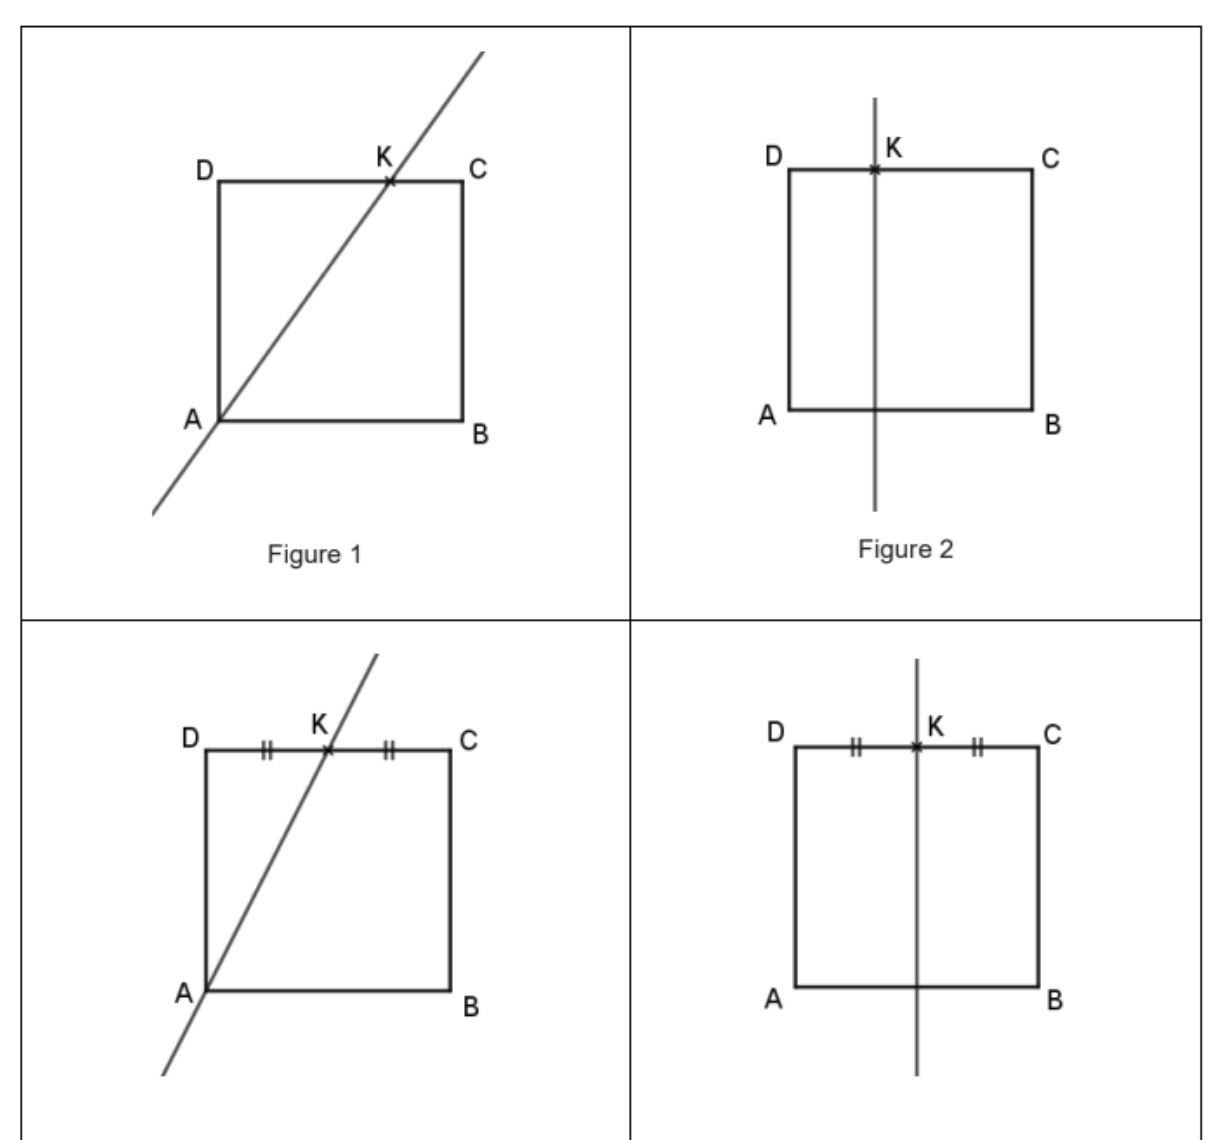
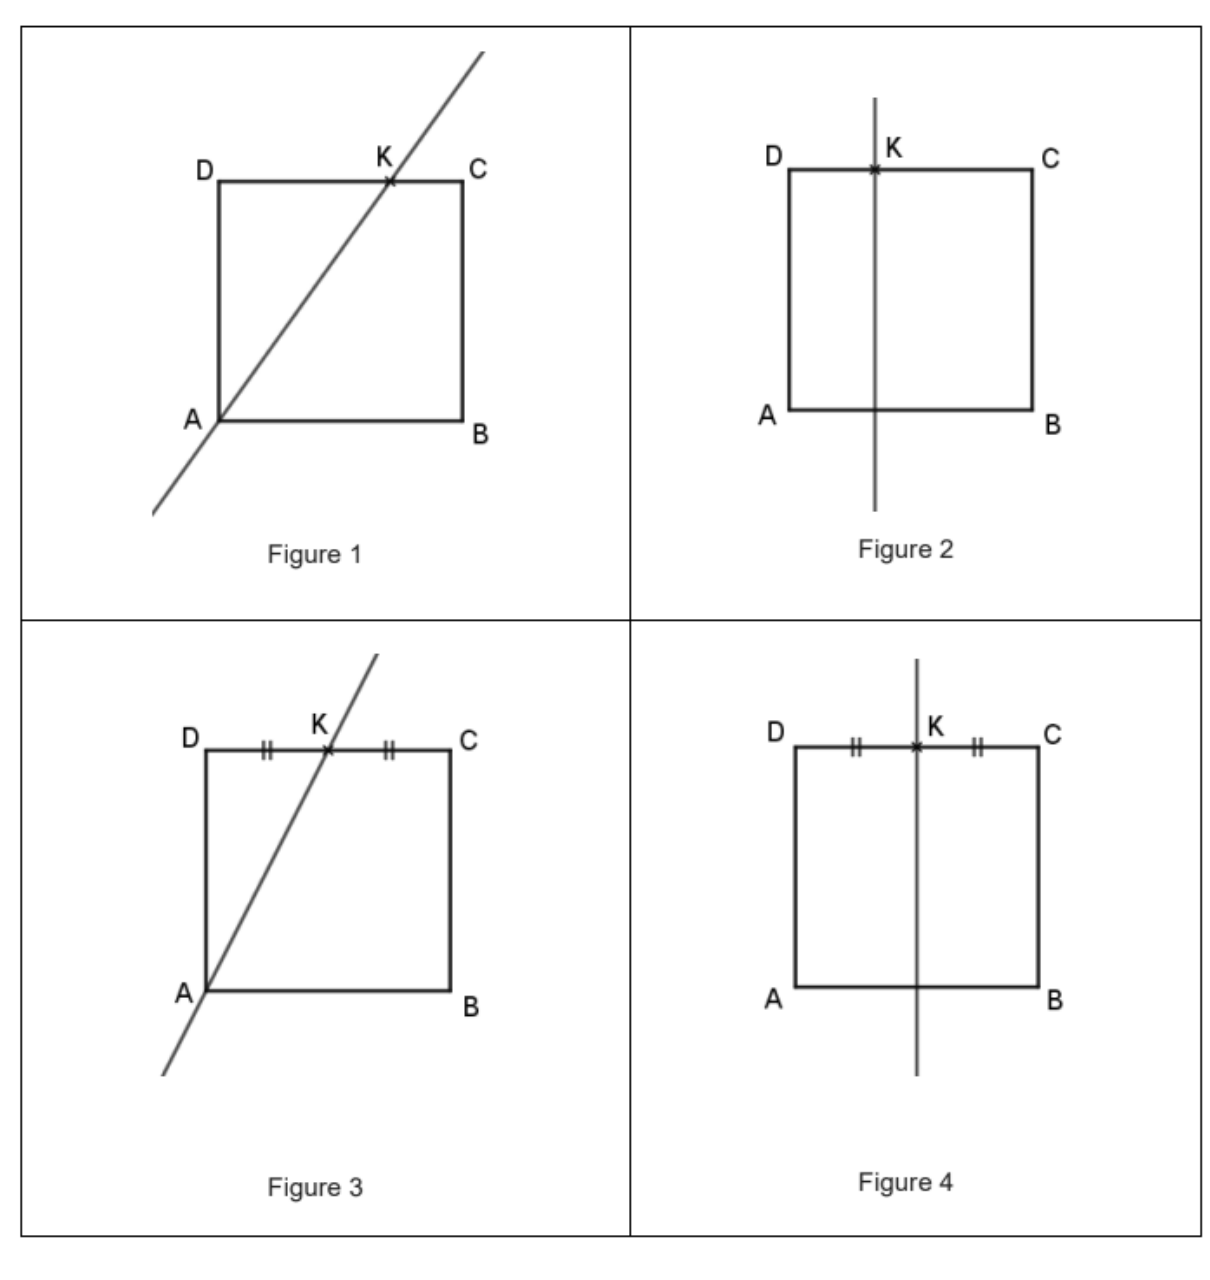
Compléter les exercices 5 à 7 et la navigation tactile

diff --git a/app.js b/app.js
@@ -81,13 +81,21 @@ Object.assign(questions, {
   "ex03-3": { type: "choice", title: "Problème 3", prompt: "Ali a 150 € dans son porte-monnaie. Ali achète 3 livres à 20 € l’un et 4 magazines à 10 € l’un. Combien d’argent a-t-il après son achat ?", options: ["60 €", "40 €", "100 €", "120 €", "113 €", "50 €"], answer: 5, research: true },
   "ex03-4": { type: "choice", title: "Problème 4", prompt: "2 parts de gâteau coûtent 3 €. Combien 8 parts de gâteau coûtent-elles ?", options: ["9 €", "12 €", "24 €", "8 €", "11 €", "13 €"], answer: 1, research: true },
   "ex03-5": { type: "choice", title: "Problème 5", prompt: "Une trousse et un stylo coûtent 14 €. Trois stylos coûtent 12 €. Quel est le prix d’une trousse ?", options: ["14 €", "4 €", "12 €", "2 €", "7 €", "10 €"], answer: 3, research: true },
-  "ex03-6": { type: "choice", title: "Problème 6", prompt: "Lis le programme de construction. Une seule figure correspond à ce programme de construction. Parmi les 4 figures proposées, entoure la figure correcte.", options: ["Figure 1", "Figure 2", "Figure 3", "Figure 4"], answer: 3, image: "assets/exercice-3-figures.png" },
+  "ex03-6": { type: "choice", title: "Problème 6", prompt: "Lis le programme de construction :\n1- Construis un carré ABCD.\n2- Place le point K au milieu du segment [CD].\n3- Construis la droite parallèle à (AD) passant par le point K.\n\nQuelle figure correspond à ce programme de construction ?", options: ["Figure 1", "Figure 2", "Figure 3", "Figure 4"], answer: 3, image: "assets/exercice-3-figures.png" },
   "ex04-1": { type: "input", title: "Droite 1", prompt: "Écris dans le cadre le nombre indiqué par la flèche.", answer: "58000", placeholder: "Saisis le nombre", inputMode: "numeric", numberLine: { min: 28000, max: 68000, minLabel: "28 000", maxLabel: "68 000", divisions: 4, targetIndex: 3 } },
   "ex05-1": { type: "choice", title: "Question 1", prompt: "3 dizaines + 4 centaines + 5 milliers + 8 unités =", options: ["5 348", "3 458", "5 438", "50 438"], answer: 0 },
   "ex05-2": { type: "choice", title: "Question 2", prompt: "6 milliers + 4 dizaines + 5 unités =", options: ["645", "15", "6 045", "6 450"], answer: 2 },
-  "ex06-1": { type: "input", title: "Opération 1", prompt: "Pose et calcule : 672 + 9 816 =", answer: "10488", placeholder: "Résultat", inputMode: "numeric" },
-  "ex06-2": { type: "input", title: "Opération 2", prompt: "Pose et calcule : 301 − 23 =", answer: "278", placeholder: "Résultat", inputMode: "numeric" },
-  "ex07-1": { type: "input", title: "Calcul mental", prompt: "Complète : 3 × 7 =", answer: "21", placeholder: "Résultat", inputMode: "numeric" },
+  "ex05-3": { type: "choice", title: "Question 3", prompt: "5 dizaines + 9 centaines =", options: ["59", "95", "950", "905"], answer: 2 },
+  "ex05-4": { type: "choice", title: "Question 4", prompt: "5 milliers + 45 unités =", options: ["545", "5 045", "50", "50 045"], answer: 1 },
+  "ex05-5": { type: "choice", title: "Question 5", prompt: "5 dizaines + 19 unités =", options: ["519", "69", "24", "195"], answer: 1 },
+  "ex05-6": { type: "choice", title: "Question 6", prompt: "7 centaines + 10 dizaines + 30 unités =", options: ["71 030", "740", "830", "47"], answer: 1 },
+  "ex05-7": { type: "choice", title: "Question 7", prompt: "45 unités + 8 dizaines =", options: ["458", "125", "845", "53"], answer: 1 },
+  "ex05-8": { type: "choice", title: "Question 8", prompt: "7 centaines + 24 dizaines =", options: ["724", "94", "940", "31"], answer: 2 },
+  "ex06-1": { type: "input", title: "Opération 1", prompt: "Pose en colonnes et calcule : 672 + 9 816 =", answer: "10488", placeholder: "Résultat", inputMode: "numeric", research: true },
+  "ex06-2": { type: "input", title: "Opération 2", prompt: "Pose en colonnes et calcule : 301 − 23 =", answer: "278", placeholder: "Résultat", inputMode: "numeric", research: true },
+  "ex06-3": { type: "input", title: "Opération 3", prompt: "Pose en colonnes et calcule : 1 547 + 18 + 4 026 =", answer: "5591", placeholder: "Résultat", inputMode: "numeric", research: true },
+  "ex06-4": { type: "input", title: "Opération 4", prompt: "Pose en colonnes et calcule : 4 354 − 3 366 =", answer: "988", placeholder: "Résultat", inputMode: "numeric", research: true },
+  "ex07-1": { type: "input", title: "Calcul 1 sur 25", prompt: "Complète : 3 × 7 =", answer: "21", placeholder: "Résultat", inputMode: "numeric" },
   "ex08-1": { type: "choice", title: "Question 1", prompt: "L’information sur le régime alimentaire du fou de Bassan se trouve dans l’encadré…", options: ["1. Sa carte d’identité", "2. Sa nourriture", "3. L’origine de son nom", "5. Le saviez-vous ?"], answer: 1 },
   "ex08-2": { type: "choice", title: "Question 2", prompt: "Le fou de Bassan mange les poissons…", options: ["dans son nid.", "sous l’eau.", "sur les falaises.", "en l’air."], answer: 1 },
   "ex09-1": { type: "input", title: "Mot dicté", prompt: "Écris le mot dicté : un champignon.", answer: "champignon", placeholder: "Écris le mot", inputMode: "text" },
@@ -117,7 +125,7 @@ Object.assign(questions, {
 
 const exerciseQuestionMap = {
   1: ["lecture-1", "lecture-2", "lecture-3", "lecture-4", "lecture-5", "lecture-6", "lecture-7", "lecture-8", "lecture-9", "lecture-10"],
-  2: ["ex02-1"], 3: ["ex03-1", "ex03-2", "ex03-3", "ex03-4", "ex03-5", "ex03-6"], 4: ["ex04-1"], 5: ["ex05-1", "ex05-2"], 6: ["ex06-1", "ex06-2"], 7: ["ex07-1"], 8: ["ex08-1", "ex08-2"], 9: ["ex09-1"], 11: ["ex11-1", "ex11-2"], 12: ["ex12-1", "ex12-2"], 13: ["ex13-1", "ex13-2"], 14: ["ex14-1"], 15: ["ex15-1"], 16: ["ex16-1"], 17: ["ex17-1"], 18: ["ex18-1"], 20: ["ex20-1"], 21: ["ex21-1"], 22: ["ex22-1"], 23: ["ex23-1"], 24: ["ex24-1"], 25: ["ex25-1"], 26: ["ex26-1"], 27: ["ex27-1"], 28: ["ex28-1"], 29: ["ex29-1"], 30: ["ex30-1"]
+  2: ["ex02-1"], 3: ["ex03-1", "ex03-2", "ex03-3", "ex03-4", "ex03-5", "ex03-6"], 4: ["ex04-1"], 5: ["ex05-1", "ex05-2", "ex05-3", "ex05-4", "ex05-5", "ex05-6", "ex05-7", "ex05-8"], 6: ["ex06-1", "ex06-2", "ex06-3", "ex06-4"], 7: Array.from({ length: 25 }, (_, index) => `ex07-${index + 1}`), 8: ["ex08-1", "ex08-2"], 9: ["ex09-1"], 11: ["ex11-1", "ex11-2"], 12: ["ex12-1", "ex12-2"], 13: ["ex13-1", "ex13-2"], 14: ["ex14-1"], 15: ["ex15-1"], 16: ["ex16-1"], 17: ["ex17-1"], 18: ["ex18-1"], 20: ["ex20-1"], 21: ["ex21-1"], 22: ["ex22-1"], 23: ["ex23-1"], 24: ["ex24-1"], 25: ["ex25-1"], 26: ["ex26-1"], 27: ["ex27-1"], 28: ["ex28-1"], 29: ["ex29-1"], 30: ["ex30-1"]
 };
 exercises.forEach(exercise => { if (exerciseQuestionMap[exercise.number]) exercise.questionIds = exerciseQuestionMap[exercise.number]; });
 
@@ -127,6 +135,14 @@ const dogOfStoneText = `L’histoire se déroule au Vietnam. Un mandarin est une
 const mermaidPassage = `Ce château était construit de pierres jaunes et luisantes ; de grands escaliers de marbre conduisaient à l’intérieur et au jardin ; plusieurs dômes dorés brillaient sur le toit, et entre les colonnes des galeries se trouvaient des statues de marbre qui paraissaient vivantes. Les salles, magnifiques, étaient ornées de rideaux et de tapis incomparables, et les murs couverts de grandes peintures. Dans le grand salon, le soleil réchauffait, à travers un plafond de cristal, les plantes les plus rares, qui poussaient dans un grand bassin au-dessous de plusieurs jets d’eau. Dès lors, la petite sirène revint souvent à cet endroit, la nuit comme le jour ; elle s’approchait de la côte, et osait même s’asseoir sous le grand balcon de marbre qui projetait son ombre bien avant sur les eaux. De là, elle voyait au clair de la lune le jeune prince, qui se croyait seul ; souvent, au son de la musique, il passait devant elle dans un riche bateau pavoisé, et ceux qui apercevaient son voile blanc dans les roseaux verts la prenaient pour un cygne ouvrant ses ailes. Elle entendait aussi les pêcheurs dire beaucoup de bien du jeune prince, et alors elle se réjouissait de lui avoir sauvé la vie, quoiqu’il l’ignorât complètement.`;
 const dictationNumbers = ["5 700", "52 365", "25 601", "352 468", "1 047", "900 000", "86 079", "7 098", "630 017", "310 040"];
 const dictationWords = ["un champignon", "une dent", "un moment", "un ordinateur", "beaucoup", "une direction", "gourmand", "souvent", "un téléphone", "maintenant", "une médaille", "pourquoi"];
+const mentalCalculations = [
+  ["3 × 7 =", "21"], ["5 × 9 =", "45"], ["4 × 4 =", "16"], ["5 × ___ = 45", "9"], ["9 × 0 =", "0"],
+  ["2 × 8 =", "16"], ["3 × 9 =", "27"], ["7 × ___ = 28", "4"], ["1 × 10 =", "10"], ["4 × 8 =", "32"],
+  ["9 × 4 =", "36"], ["3 × ___ = 24", "8"], ["7 × 4 =", "28"], ["6 × 7 =", "42"], ["6 × 9 =", "54"],
+  ["7 × ___ = 56", "8"], ["8 × 10 =", "80"], ["6 × 6 =", "36"], ["9 × 7 =", "63"], ["___ × 9 = 81", "9"],
+  ["7 × 7 =", "49"], ["8 × 6 =", "48"], ["9 × 8 =", "72"], ["8 × 7 =", "56"], ["___ × 8 = 64", "8"]
+];
+mentalCalculations.forEach(([prompt, answer], index) => { questions[`ex07-${index + 1}`] = { type: "input", title: `Calcul ${index + 1} sur ${mentalCalculations.length}`, prompt: `Complète : ${prompt}`, answer, placeholder: "Résultat", inputMode: "numeric" }; });
 
 Object.assign(questions, {
   "ex02-1": { type: "input", title: "Nombre 1 sur 10", prompt: "Écoute le nombre puis écris-le en chiffres.", answer: "5700", placeholder: "Écris le nombre", inputMode: "numeric", speakText: "cinq mille sept cents" },
@@ -249,7 +265,8 @@ function renderExerciseIntro() {
   const exercise = currentSequence();
   if (!state.timerEndAt) { state.timerEndAt = Date.now() + exercise.durationSeconds * 1000; saveState(); }
   if (state.timerEndAt <= Date.now()) { finishSequence("timeout"); return; }
-  screen.innerHTML = `<section class="panel narrow"><p class="eyebrow">Séquence ${exercise.sequenceNumber} · ${exercise.sequence} · Exercice ${exercise.number}</p><div id="timer-badge" class="timer-badge">Temps restant : ${formatTime(Math.max(0, Math.ceil((state.timerEndAt - Date.now()) / 1000)))}</div><h2>${exercise.title}</h2><p class="lead">${exercise.activity}</p><p>La durée officielle de cet exercice est de <strong>${exercise.durationLabel}</strong>. La version interactive détaillée de cet exercice sera ajoutée à cette fiche sans modifier le temps prévu.</p><div class="button-row">${button("Terminer l’exercice", "complete-preview")}</div></section>`;
+  const nextExerciseLabel = exercises.some(item => item.number === exercise.number + 1) ? "Exercice suivant" : "Retour aux exercices";
+  screen.innerHTML = `<section class="panel narrow"><p class="eyebrow">Séquence ${exercise.sequenceNumber} · ${exercise.sequence} · Exercice ${exercise.number}</p><div id="timer-badge" class="timer-badge">Temps restant : ${formatTime(Math.max(0, Math.ceil((state.timerEndAt - Date.now()) / 1000)))}</div><h2>${exercise.title}</h2><p class="lead">${exercise.activity}</p><p>La durée officielle de cet exercice est de <strong>${exercise.durationLabel}</strong>. La version interactive détaillée de cet exercice sera ajoutée à cette fiche sans modifier le temps prévu.</p><div class="button-row">${button("Terminer l’exercice", "complete-preview")}${button(nextExerciseLabel, "next-exercise", "secondary-button")}</div></section>`;
   timerInterval = setInterval(updateTimer, 1000);
 }
 function renderNumberLine(line) {
@@ -279,7 +296,9 @@ function renderQuestion() {
   if (!state.timerEndAt) { state.timerEndAt = Date.now() + exercise.durationSeconds * 1000; saveState(); }
   if (state.timerEndAt <= Date.now()) { finishSequence("timeout"); return; }
   const questionId = exercise.questionIds[state.questionIndex]; const savedAnswer = state.answers[questionId]; const savedResearch = state.research[questionId] || ""; const progress = ((state.questionIndex) / exercise.questionIds.length) * 100;
-  screen.innerHTML = `<div class="progress-wrap"><div class="progress-meta"><span>Exercice ${exercise.number} · ${exercise.title}</span><strong>Question ${state.questionIndex + 1} sur ${exercise.questionIds.length}</strong></div><div class="progress-track"><div class="progress-bar" style="width:${progress}%"></div></div></div><div class="question-layout"><article class="panel"><p class="eyebrow">${exercise.sequence}</p><div id="timer-badge" class="timer-badge">Temps restant : ${formatTime(Math.max(0, Math.ceil((state.timerEndAt - Date.now()) / 1000)))}</div><h2>${question.title}</h2><p class="instruction">${question.prompt}</p>${exercise.id === "ex-01" ? `<details open><summary>Lire le texte intégral</summary><div class="source-text">${storyForDisplay().replace(/\n\n/g, "<br><br>")}</div></details>` : ""}${renderAnswerControl(question, savedAnswer, savedResearch)}<div class="button-row">${state.questionIndex > 0 ? button("Question précédente", "previous", "secondary-button") : ""}${button(state.questionIndex === exercise.questionIds.length - 1 ? "Terminer la séquence" : "Valider et continuer", "next")}${button("Quitter l’exercice", "exit-exercise", "secondary-button")}${button("Recommencer cet exercice", "restart-exercise", "secondary-button")}</div></article><aside class="question-side"><h3>Petit rappel</h3><p>Il n’y a pas de piège. Prends le temps de lire et choisis la réponse qui te semble la plus juste.</p><p>La durée réglementaire reste visible en haut de l’exercice.</p></aside></div>`;
+  const storyBlock = exercise.id === "ex-01" ? `<details open><summary>Lire le texte intégral</summary><div class="source-text">${storyForDisplay().replace(/\n\n/g, "<br><br>")}</div></details>` : "";
+  const nextExerciseLabel = exercises.some(item => item.number === exercise.number + 1) ? "Exercice suivant" : "Retour aux exercices";
+  screen.innerHTML = `<div class="progress-wrap"><div class="progress-meta"><span>Exercice ${exercise.number} · ${exercise.title}</span><strong>Question ${state.questionIndex + 1} sur ${exercise.questionIds.length}</strong></div><div class="progress-track"><div class="progress-bar" style="width:${progress}%"></div></div></div><div class="question-layout"><article class="panel"><p class="eyebrow">${exercise.sequence}</p><div id="timer-badge" class="timer-badge">Temps restant : ${formatTime(Math.max(0, Math.ceil((state.timerEndAt - Date.now()) / 1000)))}</div>${storyBlock}<h2>${question.title}</h2><p class="instruction">${question.prompt}</p>${renderAnswerControl(question, savedAnswer, savedResearch)}<div class="button-row">${state.questionIndex > 0 ? button("Question précédente", "previous", "secondary-button") : ""}${button(state.questionIndex === exercise.questionIds.length - 1 ? "Terminer la séquence" : "Valider et continuer", "next")}${button(nextExerciseLabel, "next-exercise", "secondary-button")}${button("Quitter l’exercice", "exit-exercise", "secondary-button")}${button("Recommencer cet exercice", "restart-exercise", "secondary-button")}</div></article><aside class="question-side"><h3>Petit rappel</h3><p>Il n’y a pas de piège. Prends le temps de lire et choisis la réponse qui te semble la plus juste.</p><p>La durée réglementaire reste visible en haut de l’exercice.</p></aside></div>`;
   timerInterval = setInterval(updateTimer, 1000);
 }
 const fluencySentences = mermaidPassage.match(/[^.!?]+[.!?]+/g) || [mermaidPassage];
@@ -301,6 +320,13 @@ function renderResults() { const ids = allQuestionIds(); const score = ids.reduc
 
 function readAnswer() { const selected = document.querySelector("input[name=answer]:checked"); if (selected) return Number(selected.value); const text = document.querySelector("#free-answer"); return text && text.value.trim() ? text.value.trim() : undefined; }
 function readResearch() { const research = document.querySelector("#research-answer"); return research ? research.value : ""; }
+function openNextExercise() {
+  const current = currentSequence();
+  const next = exercises.find(exercise => exercise.number === current.number + 1);
+  if (!next) { stopTimer(); setState({ screen: "sequences", sequenceId: null, questionIndex: 0, timerEndAt: null }); return; }
+  stopTimer();
+  setState({ screen: next.id === "ex-30" ? "fluency" : (next.questionIds.length ? "question" : "intro"), sequenceId: next.id, questionIndex: 0, timerEndAt: null, fluencySentenceIndex: 0, fluencyStartedAt: null, fluencyResult: null });
+}
 function showToast(message) { const toast = document.createElement("div"); toast.className = "toast"; toast.textContent = message; document.body.append(toast); setTimeout(() => toast.remove(), 2400); }
 
 screen.addEventListener("click", event => {
@@ -323,6 +349,7 @@ screen.addEventListener("click", event => {
   if (action === "save-student") { const name = document.querySelector("#student-name").value.trim(); if (!name) { showToast("Écris ton prénom pour continuer."); return; } setState({ student: name, screen: "sequences" }); }
   if (action === "sequences") setState({ screen: "sequences" });
   if (action === "previous") setState({ questionIndex: Math.max(0, state.questionIndex - 1) });
+  if (action === "next-exercise") openNextExercise();
   if (action === "complete-preview") finishSequence();
   if (action === "start-fluency") { state = { ...state, fluencyStartedAt: Date.now(), fluencySentenceIndex: 0 }; saveState(); render(); }
   if (action === "next-fluency") { if (state.fluencySentenceIndex >= fluencySentences.length - 1) finishFluency(); else { state = { ...state, fluencySentenceIndex: state.fluencySentenceIndex + 1 }; saveState(); render(); } }

diff --git a/styles.css b/styles.css
@@ -81,8 +81,8 @@ p { line-height: 1.65; }
 .source-text { background: #f7f3e9; border-left: 5px solid var(--yellow); padding: 20px 22px; border-radius: 10px; color: #394b58; font-family: Georgia, serif; line-height: 1.65; max-height: 390px; overflow: auto; }
 .reading-text { white-space: pre-line; max-height: 460px; margin: 16px 0; }
 .research-box { margin: 18px 0; border: 2px solid var(--line); border-radius: 14px; background: #fffdf8; }
-.research-box summary { cursor: pointer; padding: 14px 16px; color: var(--navy); font-weight: 700; }
-.research-area { display: block; width: calc(100% - 28px); min-height: 150px; margin: 0 14px 14px; padding: 13px; border: 1px dashed var(--teal); border-radius: 10px; resize: vertical; color: var(--ink); background: white; outline: none; }
+.research-box summary { cursor: pointer; min-height: 52px; display: flex; align-items: center; padding: 14px 16px; color: var(--navy); font-weight: 700; touch-action: manipulation; user-select: none; }
+.research-area { display: block; width: calc(100% - 28px); min-height: 150px; margin: 0 14px 14px; padding: 13px; border: 1px dashed var(--teal); border-radius: 10px; resize: vertical; color: var(--ink); background: white; outline: none; touch-action: manipulation; -webkit-user-select: text; user-select: text; }
 .research-area:focus { border-style: solid; box-shadow: 0 0 0 4px var(--teal-soft); }
 .question-image { margin: 18px 0; padding: 12px; border: 1px solid var(--line); border-radius: 14px; background: white; }
 .question-image img { display: block; width: 100%; height: auto; }

diff --git a/README-prototype.md b/README-prototype.md
@@ -14,6 +14,9 @@ Ouvrir `index.html` dans un navigateur récent. Aucun serveur, compte, package o
 - une activité interactive pour chacun des 30 exercices ;
 - exercice 1 repris intégralement : texte complet « Le cerf-volant de Toshiro », paragraphes conservés sans les numéros de lignes et dix questions du livret avec leurs quatre propositions ;
 - exercice 3 repris avec ses 6 problèmes, les six choix du livret lorsque nécessaire, le visuel original des quatre figures du problème 6 et un cadre de recherches ouvrable pour les calculs ;
+- exercice 5 repris avec ses 8 questions de décomposition additive ;
+- exercice 6 repris avec ses 4 opérations, chacune accompagnée d'un cadre pour poser le calcul ;
+- exercice 7 repris avec ses 25 calculs à trous de tables de multiplication et son chronomètre d'une minute ;
 - QCM, saisies numériques ou textuelles et réponses libres selon la nature de l'exercice ;
 - texte complet de lecture pour l'exercice 30, avec saisie du nombre de mots lus ;
 - texte complet de compréhension orale pour l'exercice 23, lisible autant de fois que nécessaire ;
@@ -21,9 +24,11 @@ Ouvrir `index.html` dans un navigateur récent. Aucun serveur, compte, package o
 - six demi-droites graduées fidèles à l'exercice 4 du livret, avec flèche, bornes et correction attendue ;
 - exercice 30 de fluence présenté phrase par phrase avec bouton « Continuer », calcul des mots par minute et score de chaque tentative ;
 - sortie et redémarrage disponibles depuis chaque exercice ;
+- bouton « Exercice suivant » pour avancer directement sans revenir à la liste ;
 - bouton « Mes scores » avec historique local des tentatives et évolution de la fluence ;
 - réponses tactiles sous forme de QCM ;
 - champs de réponse configurés sans suggestions de clavier, autocorrection, capitalisation automatique ni correcteur orthographique ;
+- cadres de recherche ouvrables au toucher et utilisables avec le clavier, la souris ou le stylet ;
 - temps réglementaire affiché et décompté pour chaque exercice : 39 min (exercice 1), 1 min 20 (exercice 10) et 1 min 30 (exercice 19) ;
 - progression par séquence et bilan final ;
 - sauvegarde locale automatique via `localStorage` ;
